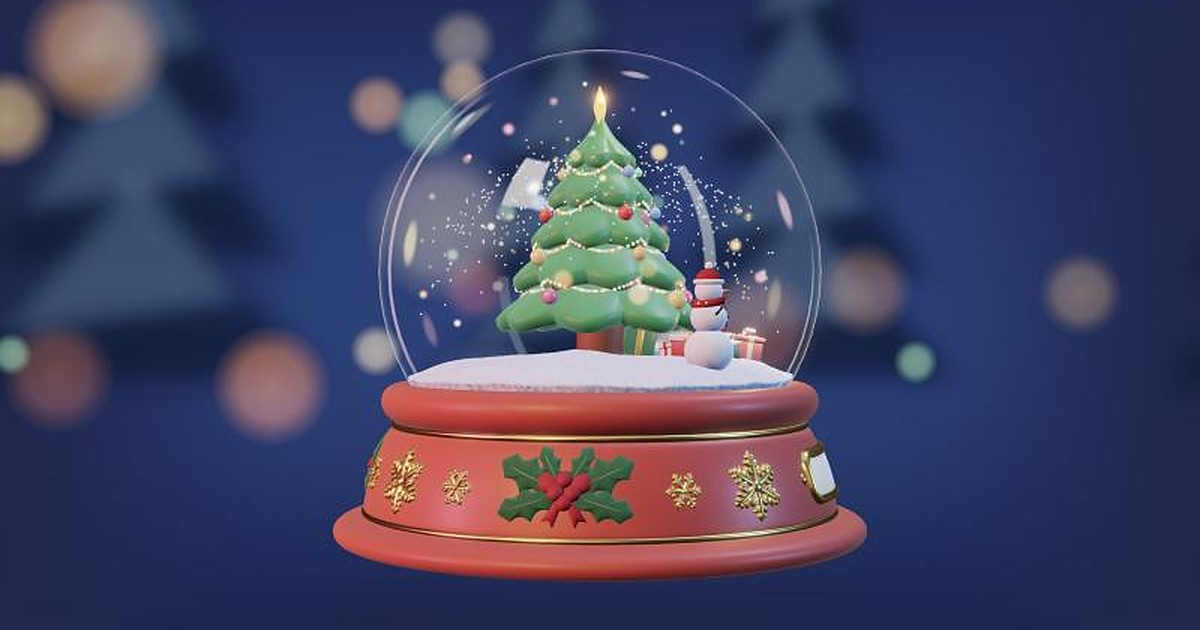
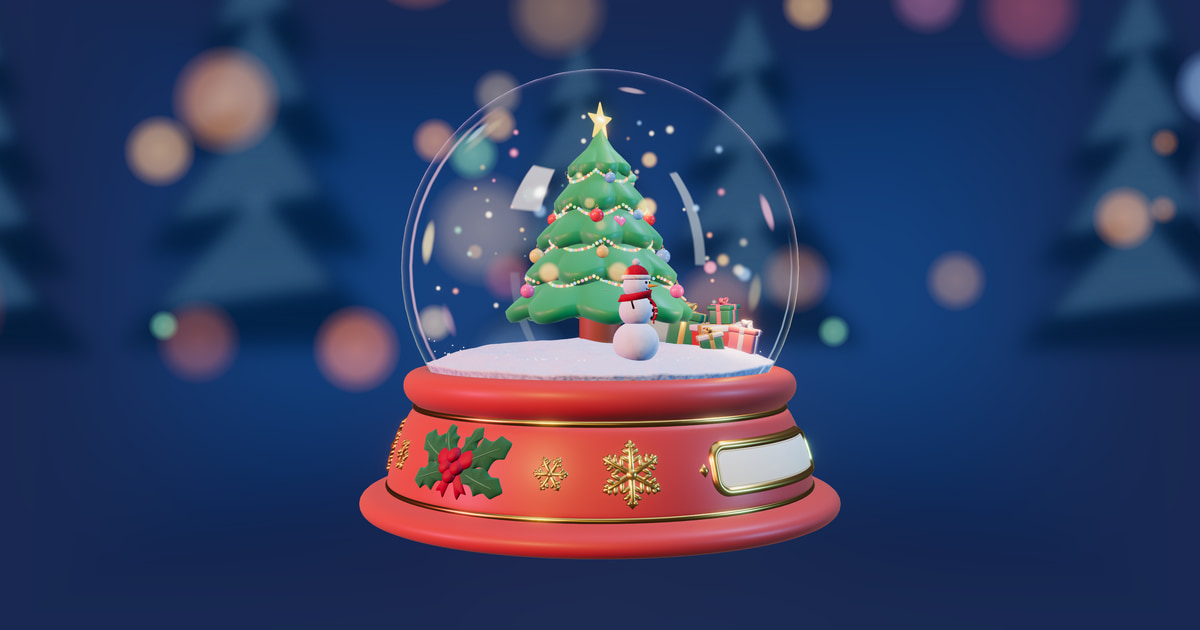
fix: 카카오톡 카드 이미지를 고해상도 캡처로 교체
작은 캡처를 늘려 흐렸던 이미지를 3600×2000 캡처에서 1200×630 으로 줄인 것으로 교체.

diff --git a/docs/위임로그/차명근.md b/docs/위임로그/차명근.md
@@ -133,5 +133,5 @@
 | 프롬프트 | "A7 카카오톡 이미지부터 시작해 줘. 배경이 단색이라서 밋밋한 것도 있는 것 같아. 배경을 AI로 하나 뽑아 올까?" |
 | 결과 | 미리보기 이미지를 글자 없는 이미지로 교체(`app/opengraph-image.jpg`, 1200×630). 서비스 첫 화면의 실제 장면(스노우볼 + 겨울밤 불빛 배경)을 화면 요소 없이 캡처해 사용. 기존 `opengraph-image.png` 삭제, 이미지 설명 글과 `lib/site.ts` 의 이미지 주소 · 안내 주석 갱신, `CLAUDE.md` 의 파일 이름 갱신. |
 | 검증 | 이미지를 전체 · 가운데 정사각형 · 2:1 로 잘라 보아 스노우볼이 잘리지 않는 것을 확인. `npm run lint`, `npm run build` 통과. 빌드한 사이트에 카카오톡 봇 이름으로 요청해 첫 화면과 스노우볼 화면의 `<head>` 이미지 주소가 새 파일을 가리키고 파일이 열리는 것을 확인. **실제 카카오톡 대화방에서 카드가 어떻게 보이는지는 확인하지 못함** (머지 · 배포 뒤에 확인 가능). |
-| 수정 | 제목을 줄여 다시 만드는 대신 이미지에서 글자를 아예 뺌(카카오톡이 이미지를 정사각형으로 자르기도 하고, 제목과 설명은 카드 아래에 글자로 따로 나오기 때문). AI 로 배경을 새로 뽑는 대신 서비스의 실제 화면을 써서 카드와 들어갔을 때의 모습이 같게 함. 카카오톡이 같은 주소의 이미지를 한동안 기억하므로 파일 이름을 바꿈(.png → .jpg). (본인 확인 필요) |
+| 수정 | 제목을 줄여 다시 만드는 대신 이미지에서 글자를 아예 뺌(카카오톡이 이미지를 정사각형으로 자르기도 하고, 제목과 설명은 카드 아래에 글자로 따로 나오기 때문). AI 로 배경을 새로 뽑는 대신 서비스의 실제 화면을 써서 카드와 들어갔을 때의 모습이 같게 함. 카카오톡이 같은 주소의 이미지를 한동안 기억하므로 파일 이름을 바꿈(.png → .jpg). 처음 올린 이미지는 작은 화면 캡처(800×420)를 늘린 것이라 흐렸고, "화질이 너무 낮다"는 지적을 받아 3600×2000 으로 다시 캡처한 뒤 1200×630 으로 줄여 교체함. (본인 확인 필요) |
 | 배운 점 | (본인 확인 필요) |
